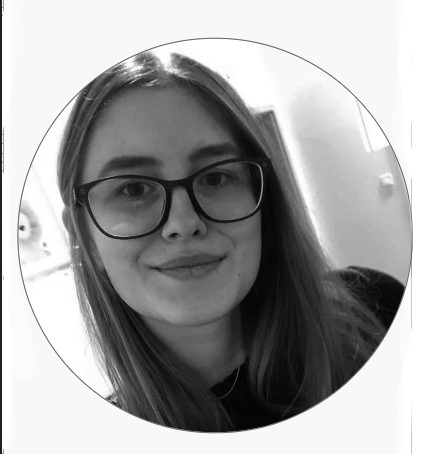
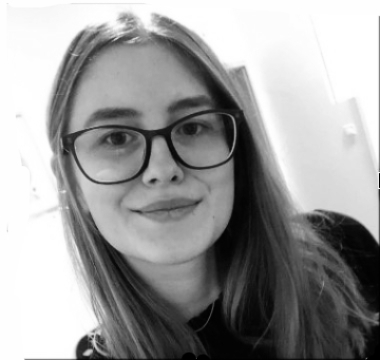
css and html in progess

diff --git a/o-aplikaci/style.css b/o-aplikaci/style.css
@@ -6,22 +6,68 @@
 html {
   font-family: sans-serif;
 }
+body{
+  display: flex;
+  flex-direction: row;
+  align-items: baseline;
+}
 
 .container {
   max-width: 20rem;
   margin-right: auto;
   margin-left: auto;
   display: flex;
-  flex-direction: row;
-  gap: 5em;
+  flex-direction: column;
+  
+}
+.together{
+display: flex;
+flex-direction: row;
+gap: 50px;
+justify-content: center;
+
+  
 }
 
 .aboutUs{
-  border-radius: 15%;
+  border-radius: 5%;
   background-color: #b85389;
+
+}
+.aboutUs:hover{
+  background-color: #864f9d;}
+
+.images{
+display: flex;
+flex-direction: row-reverse;
+margin-bottom: 20px;
+justify-content: center;
+gap:150px;
 }
 
 img{
-  border-radius: 70%;
-  max-width: 20rem;
+  border-radius: 50%;
+  max-width: 10rem;
+}
+img:hover{
+  border: 3px solid #b85389;
+
+}
+
+.headline{
+   display: flex;
+   justify-content: center; 
+}
+
+.heading{
+padding: 10px;
+  display: flex;
+  justify-content: center;
+}
+
+h2{
+    color: aliceblue;
+}
+p{
+  padding: 20px;
 }

diff --git a/o-aplikaci/index.html b/o-aplikaci/index.html
@@ -9,13 +9,21 @@
   </head>
   <body>
     <div class="container">
-      <h1>Najdi se v IT</h1>
+      <div class="headline"><h1>Najdi se v IT</h1></div>
+      <div class="images">
+   <img src="img/Alenka.jpg" alt="Photo of woman" />
+   
+   <img src="img/Matka.jpg" alt="Photo of woman" />
+  </div>
+   <div class="together">
       <div class="aboutUs">
-        <img src="img/Alenka.png" alt="Photo of woman" />
+        <div class="heading"><h2>Martina Bujasová</h2></div>
+        <p>ppppppppppppppppppppppppppp <br>pppppppppppppppppppppppp <br>pppppppppppppppp</p>
       </div>
       <div class="aboutUs">
-        <img src="img/Matka.jpg" alt="Photo of woman" />
-      </div>
+       <div class="heading"> <h2>Alena Kadecká</h2></div>
+        <p>ppppppppppppppppppppppppppp <br>pppppppppppppppppppppppp <br>pppppppppppppppp</p>
+      </div></div>
     </div>
   </body>
 </html>
